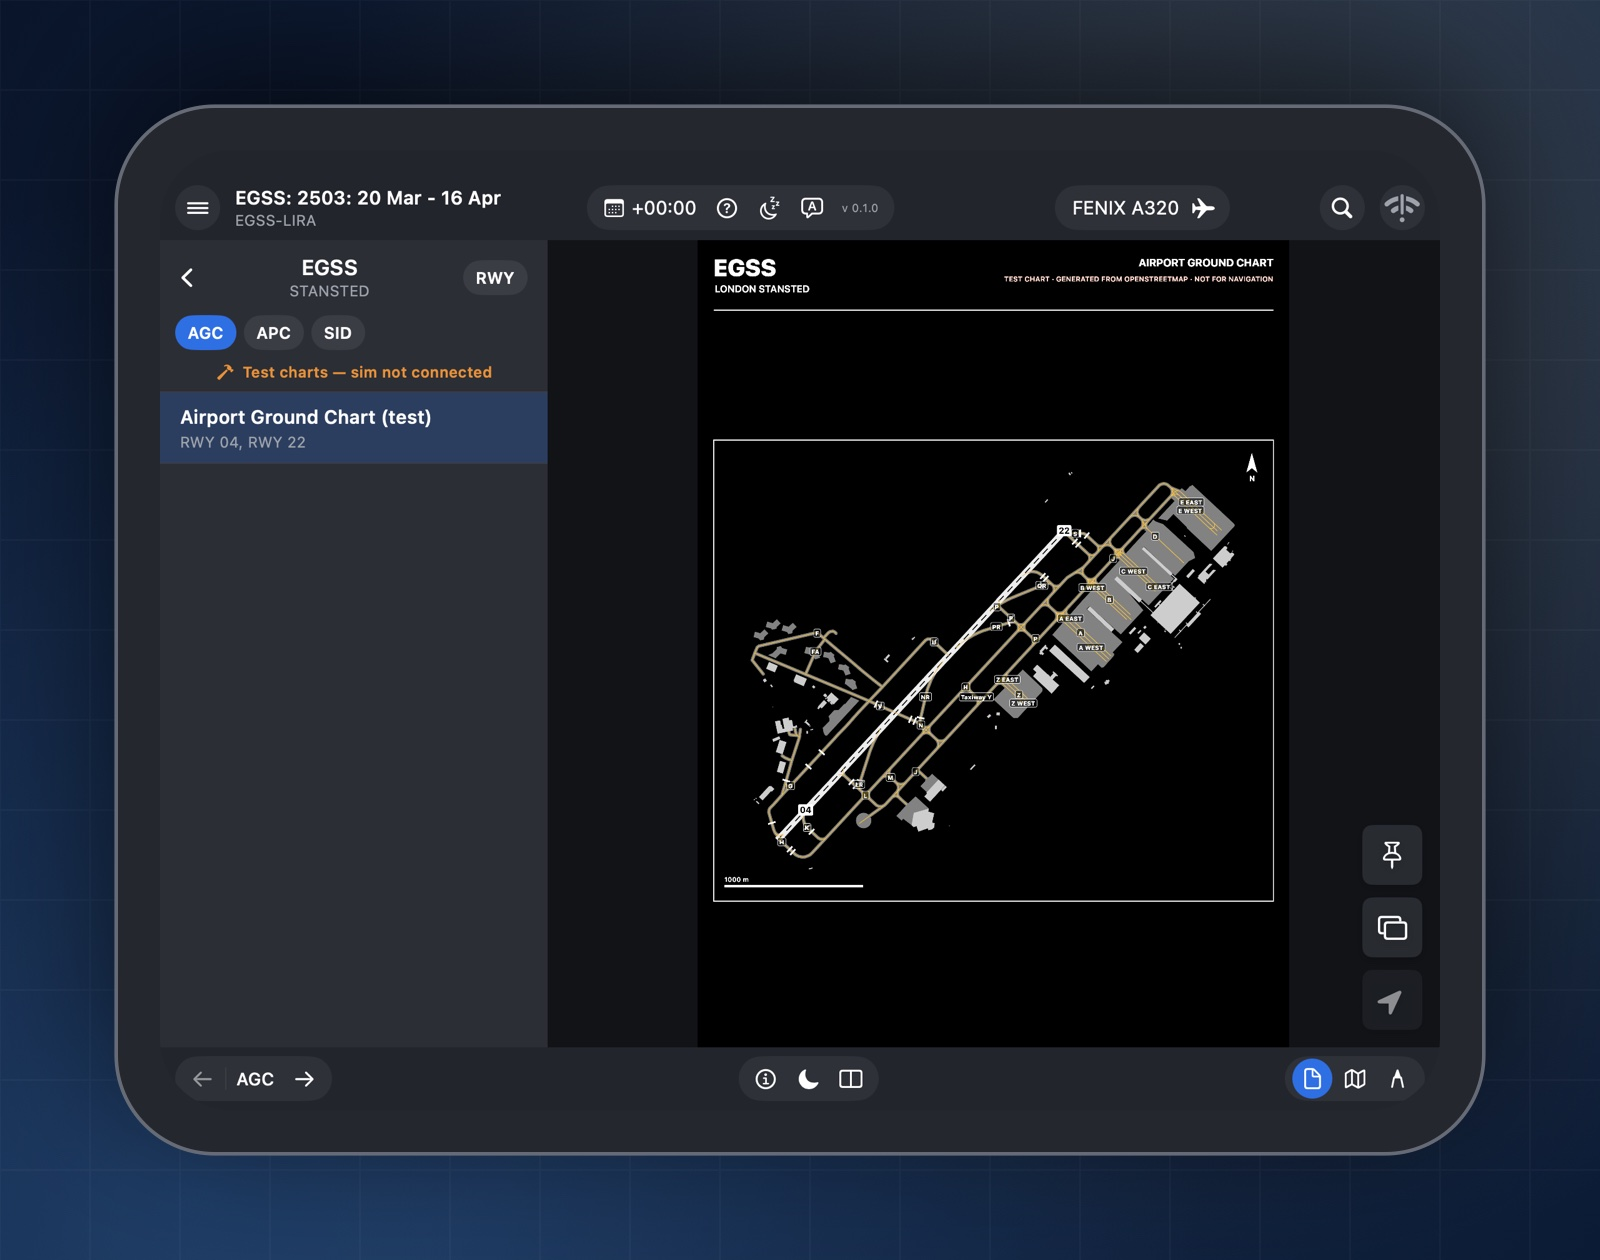
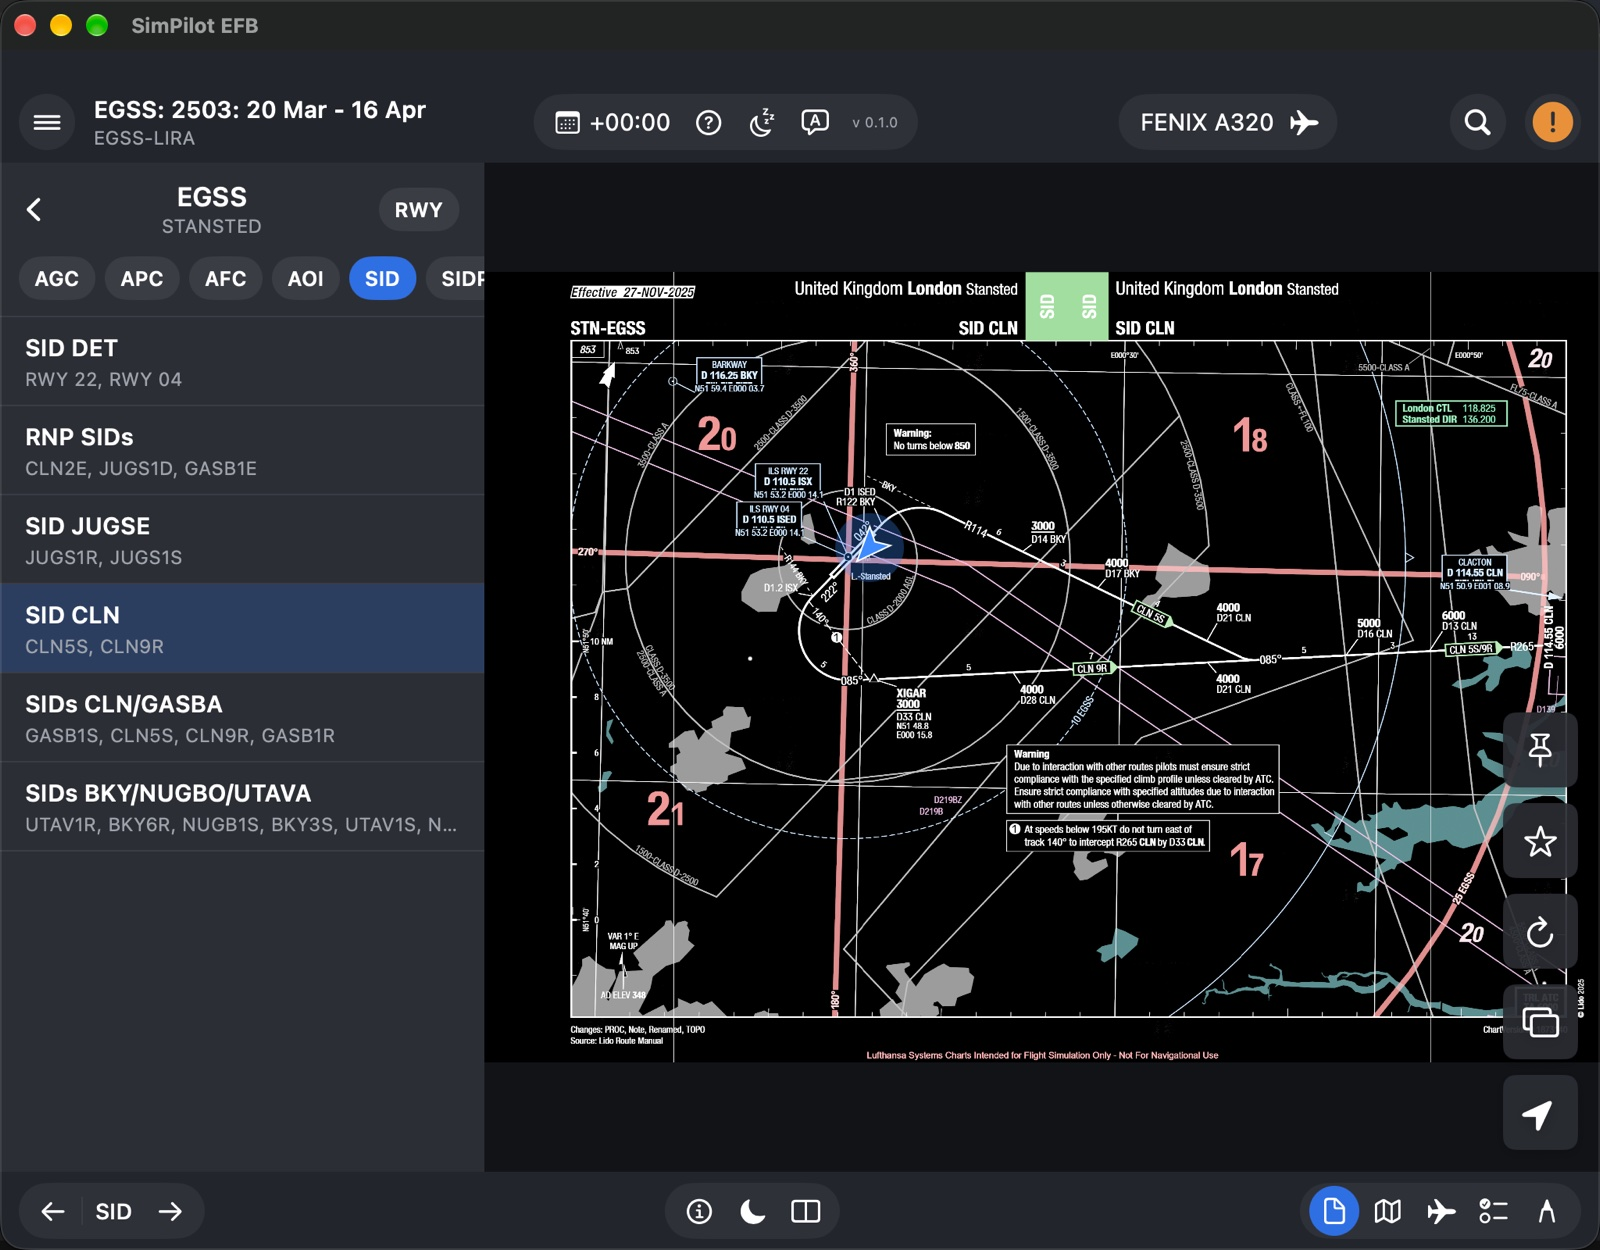
Update README screenshots: charts, chart on the map, enroute altitudes and the Flight screen

diff --git a/README.md b/README.md
@@ -133,7 +133,7 @@ A **Flight** screen (the checklist icon in the bottom bar) with everything you w
 
 <table>
   <tr>
-    <td width="50%"><img src="docs/images/enroute-map.jpg" alt="Enroute map with the SimBrief route"><br><b>Enroute map</b><br>SimBrief route, FIRs, airports and the flight folder</td>
+    <td width="50%"><img src="docs/images/enroute-map.jpg" alt="Enroute map with the SimBrief route and altitude labels"><br><b>Enroute map</b><br>SimBrief route with the planned altitude at every fix, coloured by climb, cruise and descent</td>
     <td width="50%"><img src="docs/images/airport-map.jpg" alt="Airport moving map at London Stansted"><br><b>Airport moving map</b><br>Stands, holding points, taxiway names and runway badges</td>
   </tr>
   <tr>
@@ -141,8 +141,11 @@ A **Flight** screen (the checklist icon in the bottom bar) with everything you w
     <td><img src="docs/images/waypoint-details.jpg" alt="Waypoint details card"><br><b>Tap for details</b><br>Planned level, leg and distance for any fix on the route</td>
   </tr>
   <tr>
-    <td><img src="docs/images/charts.jpg" alt="Chart viewer"><br><b>Charts</b><br>Airport, approach and departure charts by category</td>
-    <td><img src="docs/images/split-view.jpg" alt="Split view of chart and map"><br><b>Split view</b><br>Chart and live map side by side</td>
+    <td><img src="docs/images/charts.jpg" alt="SID chart with your aircraft on it"><br><b>Charts</b><br>The sim's own charts by category, with your aircraft drawn on the chart</td>
+    <td><img src="docs/images/chart-on-map.jpg" alt="A SID chart laid over the enroute map"><br><b>Chart on the map</b><br>Lay a georeferenced chart over the map with an opacity slider; split view puts chart and map side by side</td>
+  </tr>
+  <tr>
+    <td colspan="2"><img src="docs/images/flight-briefing.jpg" alt="Flight screen briefing for EGSS to LIRA" width="50%"><br><b>Flight screen</b><br>Departure and arrival briefing with live METAR and QNH, plus clearances, checklists, fuel, logbook, documents and ACARS</td>
   </tr>
 </table>
 
